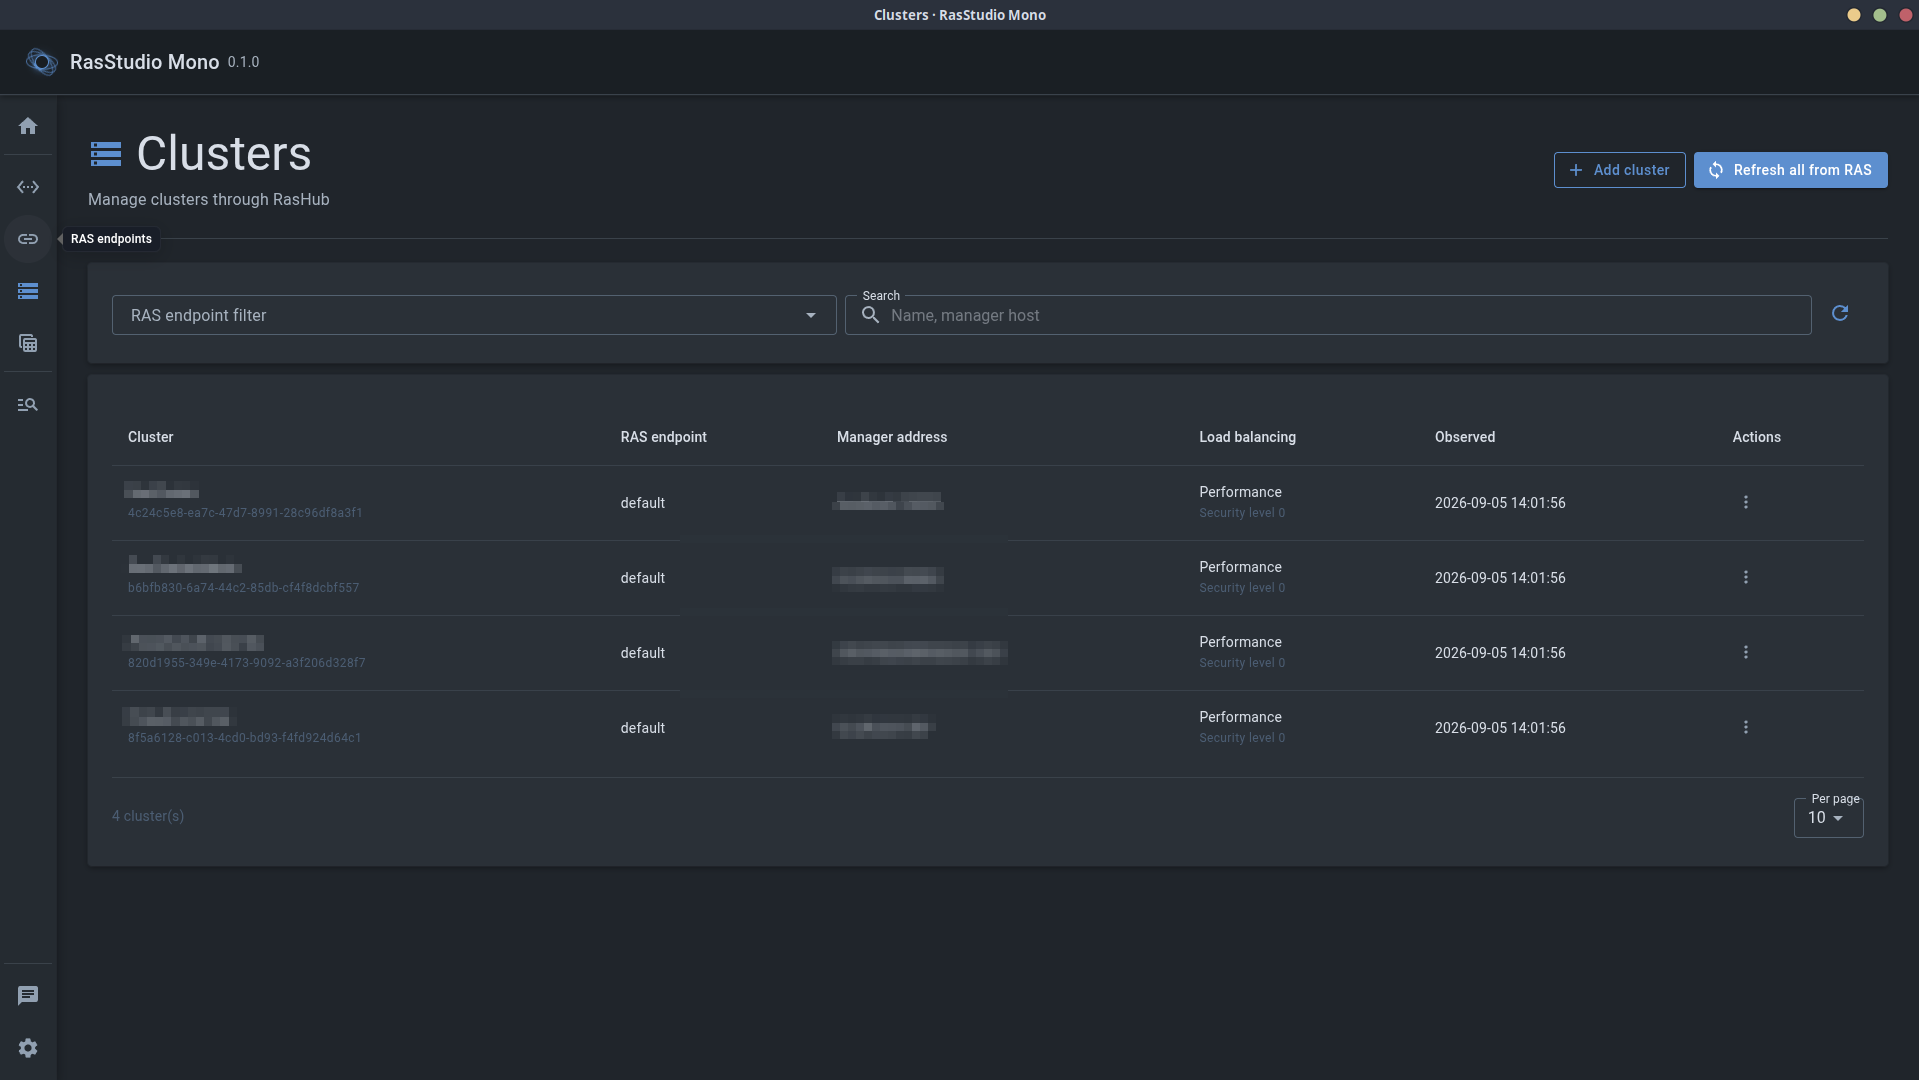
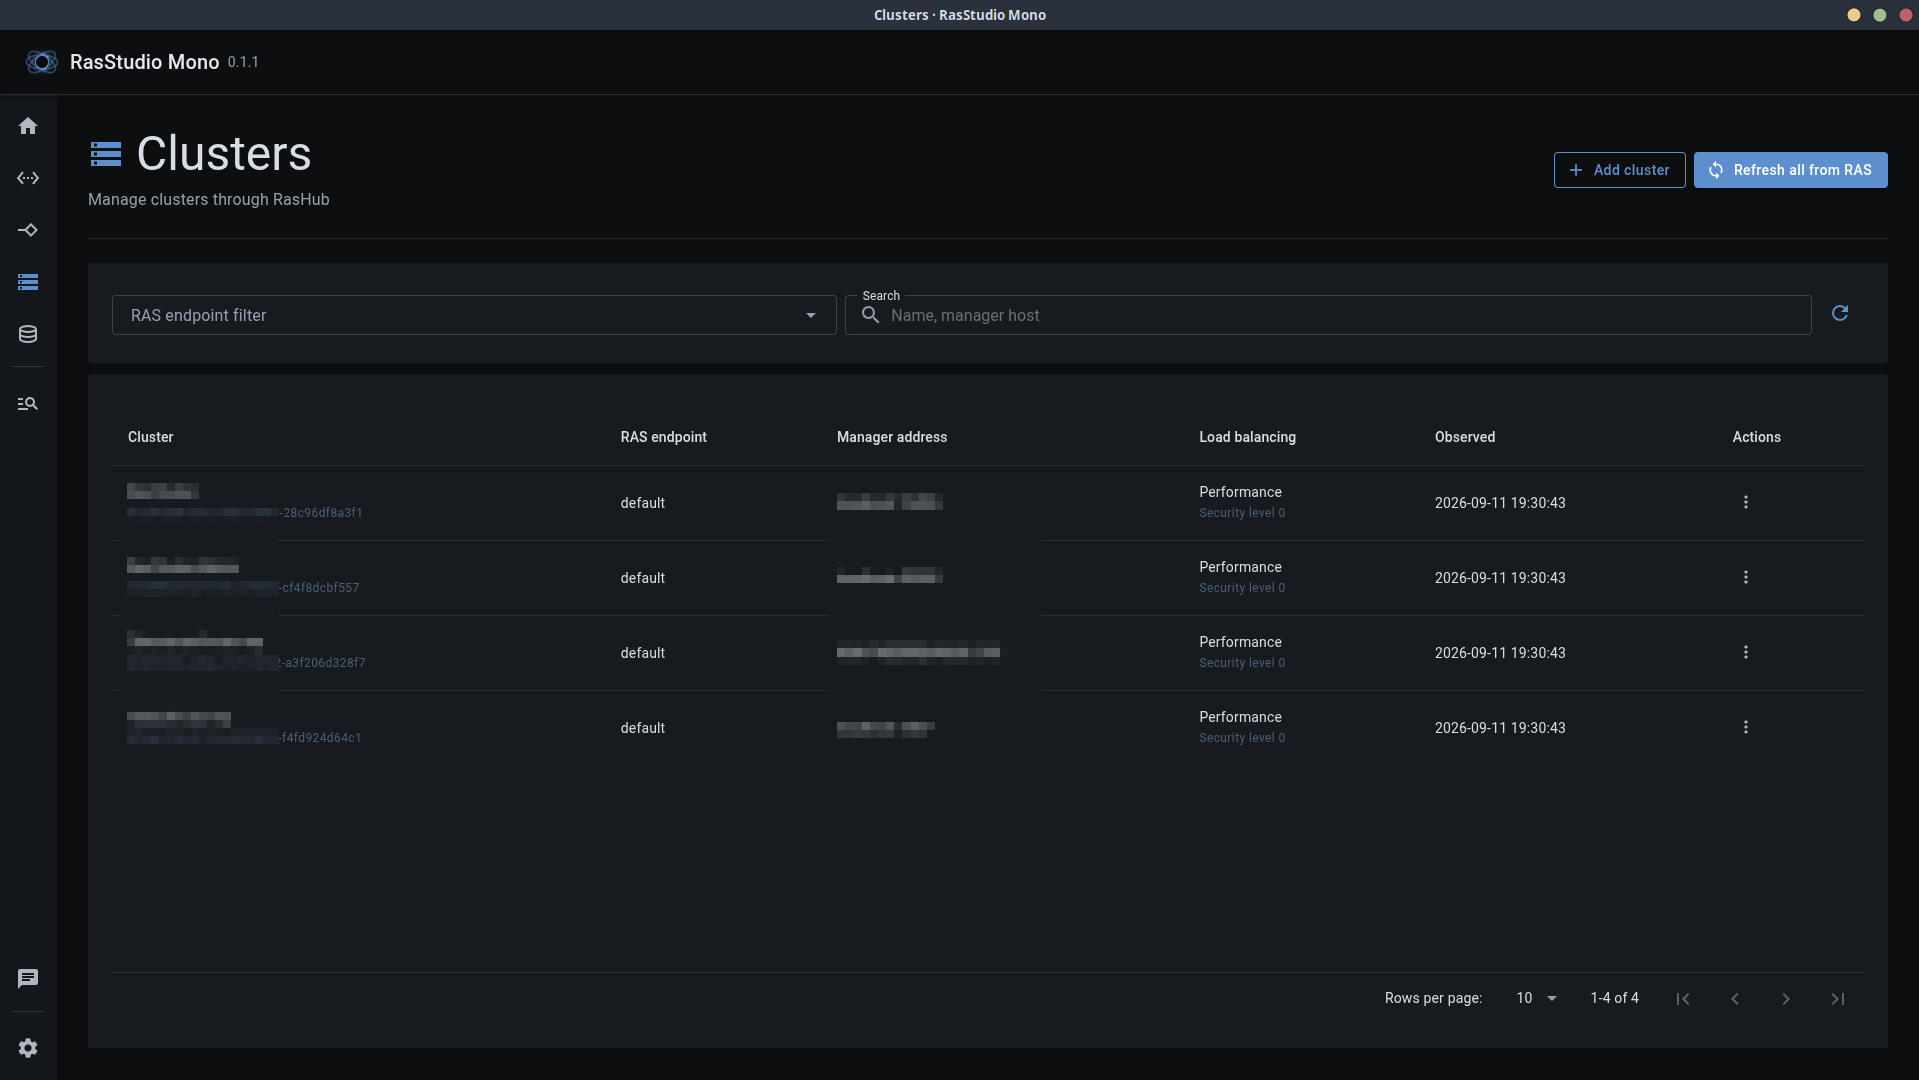
docs: update READMEs

diff --git a/profile/README.ru.md b/profile/README.ru.md
@@ -51,7 +51,12 @@
       <td align="center" valign="top" colspan="2">
         <strong>RasWarden</strong>
         <br><br>
-        <img src="./assets/ras-warden-placeholder.png" width="400" height="225" alt="RasWarden">
+        <a href="./assets/ras-warden-dashboard.png">
+          <img src="./assets/ras-warden-dashboard.png" width="300" alt="Панель мониторинга RasWarden">
+        </a>
+        <a href="./assets/ras-warden-constraints.png">
+          <img src="./assets/ras-warden-constraints.png" width="300" alt="Настройка ограничений RasWarden">
+        </a>
         <br><br>
         <img src="https://img.shields.io/badge/container-Linux%20AMD64-2496ED?logo=docker&amp;logoColor=white" alt="Контейнер Linux AMD64">
         <img src="https://img.shields.io/badge/visibility-private-8B949E" alt="Приватный компонент">

diff --git a/profile/README.md b/profile/README.md
@@ -51,7 +51,12 @@
       <td align="center" valign="top" colspan="2">
         <strong>RasWarden</strong>
         <br><br>
-        <img src="./assets/ras-warden-placeholder.png" width="400" height="225" alt="RasWarden">
+        <a href="./assets/ras-warden-dashboard.png">
+          <img src="./assets/ras-warden-dashboard.png" width="300" alt="RasWarden monitoring dashboard">
+        </a>
+        <a href="./assets/ras-warden-constraints.png">
+          <img src="./assets/ras-warden-constraints.png" width="300" alt="RasWarden constraint configuration">
+        </a>
         <br><br>
         <img src="https://img.shields.io/badge/container-Linux%20AMD64-2496ED?logo=docker&amp;logoColor=white" alt="Linux AMD64 container">
         <img src="https://img.shields.io/badge/visibility-private-8B949E" alt="Private component">
